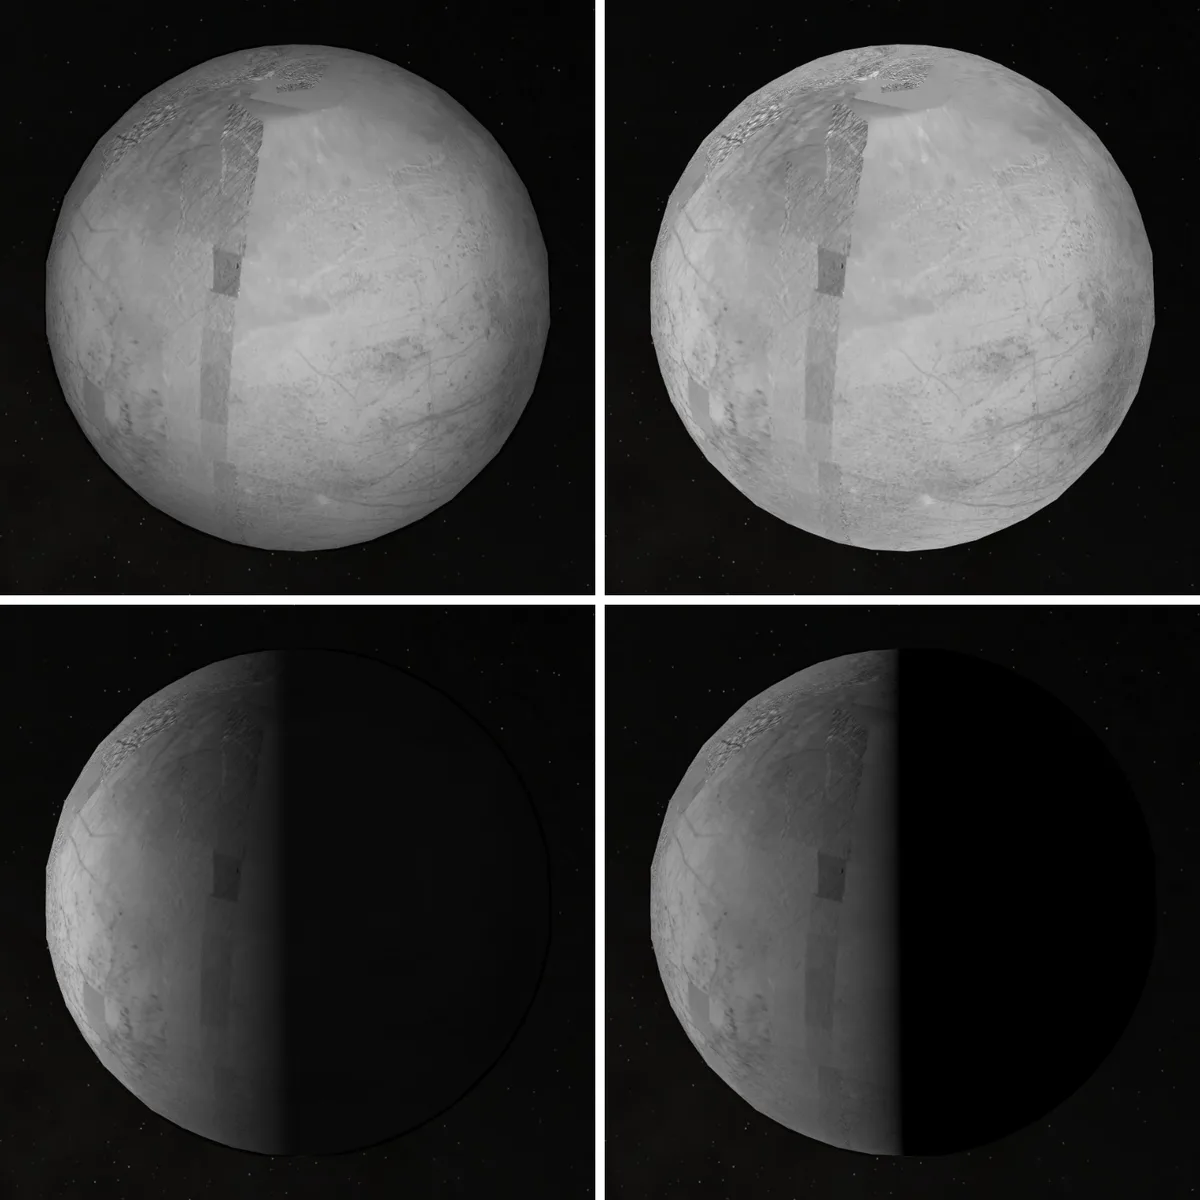
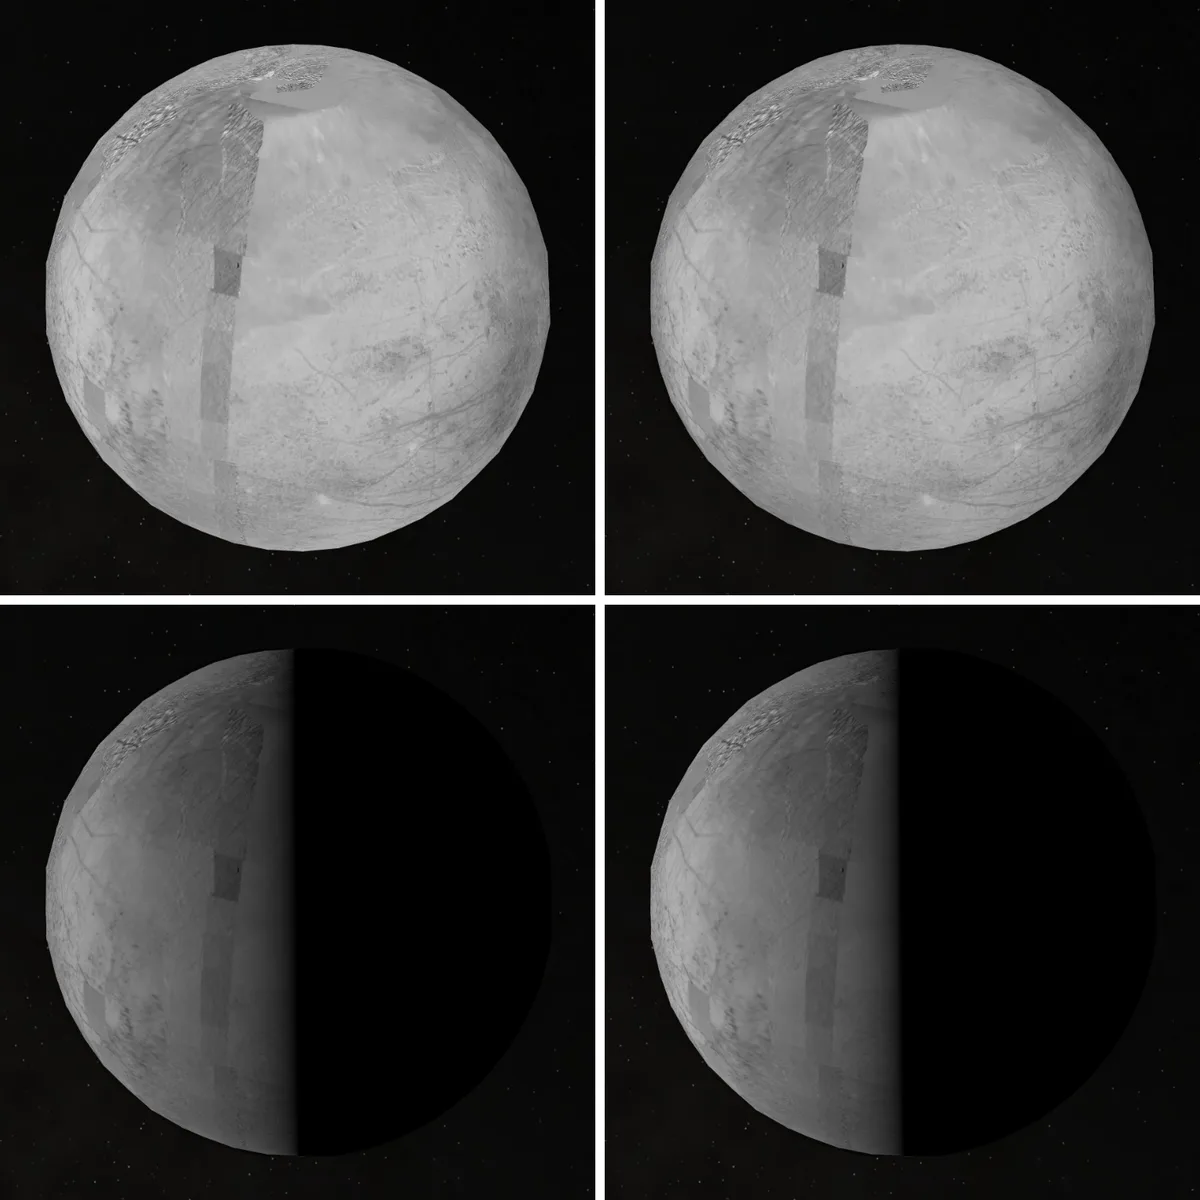
feat(europa): light Europa with a Minnaert law joined from the 1983 low-phase fit and the 2021 fit, darkening its flood-lit limb

diff --git a/packages/bake/src/photometry/disk.ts b/packages/bake/src/photometry/disk.ts
@@ -33,9 +33,15 @@ export type DiskModel =
    * (cos beta)^(g/(pi - g)) / cos gamma, with the photometric longitude gamma = arctan[(mu0 - mu cos g)/(mu sin g)] and
    * latitude beta = arccos(mu / cos gamma). It is 1 over the whole disc at zero phase: no limb darkening under flood light.
    */
-  | { readonly family: 'akimov' };
+  | { readonly family: 'akimov' }
+  /**
+   * Minnaert with the exponent a paper gives at stated phase angles, each point [phase in degrees, k], joined by straight
+   * lines and held at the nearest point outside them: D = mu0^k mu^(k - 1). It lets fits made over different phase ranges
+   * each be used inside its own range (McEwen and Soderblom 1983 and Dhingra et al. 2021 for Europa).
+   */
+  | { readonly family: 'minnaert-tabulated'; readonly points: readonly (readonly [number, number])[] };
 
-export const DISK_FAMILIES = ['lambert', 'lommel-seeliger', 'lunar-lambert', 'minnaert', 'lommel-seeliger-lambert', 'akimov'] as const;
+export const DISK_FAMILIES = ['lambert', 'lommel-seeliger', 'lunar-lambert', 'minnaert', 'lommel-seeliger-lambert', 'akimov', 'minnaert-tabulated'] as const;
 
 /** Normal incidence and emission at zero phase: the reference at which every disk function above equals 1, except Lommel-Seeliger plus Lambert, which there gives A0 f0 / 2 + 1 - A0. */
 export const NORMAL_GEOMETRY: DiskGeometry = Object.freeze({ mu0: 1, mu: 1, phase: 0 });
@@ -44,12 +50,21 @@ export const NORMAL_GEOMETRY: DiskGeometry = Object.freeze({ mu0: 1, mu: 1, phas
 export const minnaertExponent = (model: { coefficient: number; coefficientPerDegree: number }, phase: number) =>
   model.coefficient + model.coefficientPerDegree * phase * 180 / Math.PI;
 
+/** The exponent of a tabulated Minnaert law at a phase angle in radians: straight lines between its points, held outside them. */
+export function tabulatedExponent(points: readonly (readonly [number, number])[], phase: number): number {
+  const degrees = phase * 180 / Math.PI, next = points.findIndex(([at]) => at >= degrees);
+  if (next <= 0) return points[next === 0 ? 0 : points.length - 1][1];
+  const [from, low] = points[next - 1], [to, high] = points[next];
+  return low + (high - low) * (degrees - from) / (to - from);
+}
+
 export function diskValue(model: DiskModel, { mu0, mu, phase }: DiskGeometry): number {
   switch (model.family) {
     case 'lambert': return mu0;
     case 'lommel-seeliger': return 2 * mu0 / (mu0 + mu);
     case 'lunar-lambert': return (1 - model.weight) * mu0 + 2 * model.weight * mu0 / (mu0 + mu);
     case 'minnaert': { const k = minnaertExponent(model, phase); return mu0 ** k * mu ** (k - 1); }
+    case 'minnaert-tabulated': { const k = tabulatedExponent(model.points, phase); return mu0 ** k * mu ** (k - 1); }
     case 'akimov': {
       // At zero phase the longitude is undetermined and the function is 1 for every one.
       if (!(Math.sin(phase) > 1e-12)) return 1;
@@ -82,6 +97,11 @@ export function assertDiskModel(model: DiskModel) {
   if (!DISK_FAMILIES.includes(model.family)) throw new TypeError(`Unknown disk function: ${String((model as { family: unknown }).family)}`);
   if (model.family === 'lunar-lambert' && !(Number.isFinite(model.weight) && model.weight >= 0 && model.weight <= 1)) throw new TypeError('Lunar-Lambert weight must lie in [0, 1].');
   if (model.family === 'minnaert' && !(Number.isFinite(model.coefficient) && Number.isFinite(model.coefficientPerDegree))) throw new TypeError('Minnaert coefficients must be finite.');
+  if (model.family === 'minnaert-tabulated') {
+    const { points } = model;
+    if (!(Array.isArray(points) && points.length >= 2) || !points.every(point => Array.isArray(point) && point.length === 2 && point.every(Number.isFinite))) throw new TypeError('A tabulated Minnaert law needs at least two finite [degrees, exponent] points.');
+    if (!points.every(([degrees, k], index) => degrees >= 0 && degrees <= 180 && k > 0 && (index === 0 || degrees > points[index - 1][0]))) throw new TypeError('Tabulated Minnaert points must have increasing phases within [0, 180] degrees and positive exponents.');
+  }
   if (model.family === 'lommel-seeliger-lambert') {
     const { lunarFraction, lunarFractionPerDegree, surfacePhase, surfacePhasePerDegree } = model, lunarAt180 = lunarFraction + lunarFractionPerDegree * 180;
     if (![lunarFraction, lunarFractionPerDegree, surfacePhase, surfacePhasePerDegree].every(Number.isFinite)) throw new TypeError('Lommel-Seeliger plus Lambert coefficients must be finite.');

diff --git a/packages/bake/src/photometry/model-record.ts b/packages/bake/src/photometry/model-record.ts
@@ -75,6 +75,11 @@ export function parsePhotometricModel(value: unknown): PhotometricModel {
     const disk: DiskModel = diskFamily === 'lunar-lambert' ? { family: diskFamily, weight: requireFiniteNumber(strict(r.disk, ['family', 'weight'], 'disk function').weight, 'weight') }
       : diskFamily === 'minnaert' ? (() => { const d = strict(r.disk, ['family', 'coefficient', 'coefficientPerDegree'], 'disk function'); return { family: diskFamily, coefficient: requireFiniteNumber(d.coefficient, 'coefficient'), coefficientPerDegree: requireFiniteNumber(d.coefficientPerDegree ?? 0, 'coefficient per degree') }; })()
       : diskFamily === 'lommel-seeliger-lambert' ? (() => { const d = strict(r.disk, ['family', 'lunarFraction', 'lunarFractionPerDegree', 'surfacePhase', 'surfacePhasePerDegree'], 'disk function'); return { family: diskFamily, lunarFraction: requireFiniteNumber(d.lunarFraction, 'lunar fraction'), lunarFractionPerDegree: requireFiniteNumber(d.lunarFractionPerDegree, 'lunar fraction per degree'), surfacePhase: requireFiniteNumber(d.surfacePhase, 'surface phase function'), surfacePhasePerDegree: requireFiniteNumber(d.surfacePhasePerDegree, 'surface phase function per degree') }; })()
+      : diskFamily === 'minnaert-tabulated' ? { family: diskFamily, points: requireArray(strict(r.disk, ['family', 'points'], 'disk function').points, 'exponent points').map(point => {
+          const pair = requireArray(point, 'exponent point');
+          if (pair.length !== 2) throw new TypeError('An exponent point is [degrees, exponent].');
+          return [requireFiniteNumber(pair[0], 'exponent point degrees'), requireFiniteNumber(pair[1], 'exponent point value')] as const;
+        }) }
       : diskFamily === 'lambert' || diskFamily === 'lommel-seeliger' || diskFamily === 'akimov' ? (strict(r.disk, ['family'], 'disk function'), { family: diskFamily })
       : (() => { throw new TypeError(`Unknown disk function: ${diskFamily}.`); })();
     const phase: PhaseModel | undefined = optional(r.phase, value => {

diff --git a/src/objects/europa/README.md b/src/objects/europa/README.md
@@ -11,7 +11,7 @@ The navigation marker uses the source map as a stylized identifier. The [marker 
 - The False color dataset uses the [USGS controlled Galileo observations](https://stac.astrogeology.usgs.gov/docs/data/jupiter/europa/galileo_individual_images/) (CC0), by Bland, Weller and colleagues: sequences G1ESGLOBAL01 (1996-06-28), 12ESGLOCOL01 (1997-12-16) and 14ESGLOCOL01 (1998-03-29).
 - The geology view keeps the ten map units and no-data regions of [Leonard, Patthoff and Senske (2024), SIM 3513](https://pubs.usgs.gov/publication/sim3513), scale 1:15 million.
 - The infrared view uses [the registered Galileo NIMS archive](https://doi.org/10.17189/4sz4-5024), observations 17ENGLOBAL01A and 17ENGLOBAL02A, Minnaert-corrected CIOF products.
-- Lighting uses the Lommel–Seeliger plus Lambert law of [Dhingra, Buratti and Seignovert (2021)](https://doi.org/10.3847/PSJ/ac06d6), fitted to 21 Voyager 2, Galileo and New Horizons clear-filter images. See [Lighting law](#lighting-law).
+- Lighting uses a Minnaert law whose limb exponent follows [McEwen and Soderblom (1983)](https://ntrs.nasa.gov/citations/19840015363) up to 30° phase and [Dhingra, Buratti and Seignovert (2021)](https://doi.org/10.3847/PSJ/ac06d6) beyond. See [Lighting law](#lighting-law).
 - The VLT/SPHERE composition release of [King, Fletcher and Ligier (2022)](https://doi.org/10.3847/PSJ/ac596d) is [Zenodo 6034904](https://doi.org/10.5281/zenodo.6034904). Its Ice signature, Fine ice and Coarse ice views are withheld (see Known problems).
 - Named features come from the IAU/USGS Gazetteer of Planetary Nomenclature centre-point shapefile (retrieved 2026-09-11, public domain per its FGDC metadata). Twelve names carry a caption note from the lead of their English Wikipedia article (CC BY-SA 4.0, retrieved 2026-09-12), credited in the caption beside the IAU naming year.
 - [NASA's Europa facts](https://science.nasa.gov/jupiter/jupiter-moons/europa/europa-facts/) support the introduction, oxygen atmosphere, and approximate 671,000 km distance from Jupiter.
@@ -53,9 +53,14 @@ These weights are visual choices, not fitted scattering parameters; the [USGS Eu
 
 ## Lighting law
 
-The globe is lit with the law of [Dhingra, Buratti and Seignovert (2021)](https://doi.org/10.3847/PSJ/ac06d6): I/F = A f(α) μ0/(μ0 + μ) + (1 − A) μ0. It adds a lunar-like term and a Lambert term, the form [Buratti and Veverka (1983)](https://doi.org/10.1016/0019-1035%2883%2990053-2) introduced for Europa. The coefficients are the ridged-plains lines of the paper's Table 2, A = 0.871 − 0.003 α and f = 1.556 − 0.014 α, with α the phase angle in degrees. The paper says ridged plains cover more than half of Europa and that the parameters differ little between terrains. The law is recorded in [`source/photometry/dhingra-2021-lommel-seeliger-lambert-clear.json`](source/photometry/dhingra-2021-lommel-seeliger-lambert-clear.json).
+The globe is lit with the Minnaert law, I/F = B0 μ0^k μ^(k − 1). Its exponent k sets how fast the disc darkens toward the limb. Two fits give k for Europa over different phase ranges, and each is used inside its own:
 
-Each lighting frame is the law relative to the flood-lit disc centre, so the centre of the default view shows the map as published. With the Sun behind the viewer the limb darkens to 0.86 of the centre. At 0.98 of the radius that is an overlay alpha of 0.06, where the authored bank this replaces reached 0.49. See [planet limbs](../../../docs/surface-preparation.md#planet-limbs-from-published-laws).
+- **3° to 30° phase:** [McEwen and Soderblom (1983)](https://ntrs.nasa.gov/citations/19840015363), page 261, from 44 pairs of Voyager images: k = 0.64 − 0.005α + 0.00066α² − 0.000012α³, the same for every material and wavelength. It is 0.63 at 3° and 0.76 at 30°.
+- **Beyond:** [Dhingra, Buratti and Seignovert (2021)](https://doi.org/10.3847/PSJ/ac06d6), Table 2, ridged plains, from 21 Voyager 2, Galileo and New Horizons clear-filter images at 10° to 128°: k = 0.532 + 0.004α, and B0 = 0.728 − 0.002α for the brightness with phase.
+
+The 2021 line is not used at low phase. That paper's own fit of its 10° image gives k = 0.64 to 0.65 (its Figures 4 and 6, read in the [open JPL copy](https://doi.org/10.48577/jpl.6IR6VA)), the 1983 value there (0.644), where its line gives 0.57. Between 30° and 57°, where the 2021 line is still below the 1983 value at 30°, k is held at 0.76, so the exponent never falls as phase grows. That join is our reading, not either paper's. The law is recorded in [`source/photometry/mcewen-1983-dhingra-2021-minnaert-clear.json`](source/photometry/mcewen-1983-dhingra-2021-minnaert-clear.json).
+
+Each lighting frame is the law relative to the flood-lit disc centre, so the centre of the default view shows the map as published. With the Sun behind the viewer the limb darkens to 0.66 of the centre at 0.98 of the radius, an overlay alpha of 0.18. The 2021 Lommel–Seeliger plus Lambert lines used before gave 0.86 there, above both low-phase results. See [planet limbs](../../../docs/surface-preparation.md#planet-limbs-from-published-laws).
 
 ## Evidence
 
@@ -82,7 +87,7 @@ The withheld composition grids match the original release exactly after float32 
 - **Monochrome inserts:** Smaller brightness steps remain where one gain per image cannot follow the phase-angle change in albedo, and shadows keep their original direction. Photographs beyond 85° incidence are not shown. Relative control uncertainties are about 247 m in latitude and 307 m in longitude; the older global mosaic has different registration errors. The delivered grid is about 1.20 km at the equator, so finer native detail is not shown. Atlas seams can show at extreme close zoom.
 - **False color:** 756 nm, 559 nm and 404 nm are shown as red, green and blue. This is not natural color. About 14.3% of the sphere has usable three-band coverage.
 - **Illumination:** The disk correction is approximate: no phase-angle normalization, fitted scattering model, or removal of cast shadows.
-- **Lighting law:** One law lights every terrain; the paper's chaos and crater rows differ from the ridged-plains row used. Its emission limit, 84.5°, is derived here, not stated by the paper. The fits cover 10° to 128° phase, so the flood-lit default view (0°) and frames beyond 128° use the printed lines outside that range. The line for f crosses zero at 111°; from there the lit side follows the Lambert term alone. The paper's own fit of its 10° image (A = 0.69, f = 1.17, its Figure 6) gives a darker flood-lit limb, 0.61 of the centre, than the lines of Table 2. McEwen and Soderblom (1983) found the same from 44 image pairs at 3° to 30° phase (0.64 at 3°), so the default view's limb is probably drawn too bright; the [ledger](investigations.json) says why it is not changed yet.
+- **Lighting law:** One law lights every terrain. Its limb exponent joins two fits, the 1983 one to 30° phase and the 2021 one from 57°, held between; the join is ours. Below 3° the exponent is held at its 3° value and beyond 128° the law is held. The brightness with phase comes from the 2021 fit alone. The emission limit, 84.5°, is derived here, not stated by either paper.
 - **Infrared:** This is a spectral color display, not an abundance map. Its 2010 registration grid is not the 2021 control grid.
 - **Feature outlines:** Craters and faculae trace a rim circle and other types their extent box; these are not published nomenclature boundaries.
 - **Composition reuse:** The Zenodo record is `other-open`, but gives no explicit terms for reusing the numerical release. The three composition views are withheld until such terms exist. SPHERE diffraction limits resolved features to about 150 km.

diff --git a/docs/surface-preparation.md b/docs/surface-preparation.md
@@ -762,7 +762,7 @@ same published law, so the limb in the app is the limb the instrument saw.
   | Moon | Hapke at 643 nm | [Sato et al. 2014](https://doi.org/10.1002/2013JE004580), the correction of the LROC WAC mosaic; w, b and h_S are medians of its PDS parameter map |
   | Ceres (dwarf planet) | Hapke at 749 nm | [Li et al. 2019](https://doi.org/10.1016/j.icarus.2018.12.038), Dawn Framing Camera |
   | Io | Lunar-Lambert, weight 0.7 | the [USGS mosaics'](https://astrogeology.usgs.gov/search/map/io_voyager_galileo_ssi_global_mosaic_1km) own limb-darkening correction, at the phase [SIM 3168](https://pubs.usgs.gov/sim/3168/) gives; the limb limit is the outermost pixel of the finest full-disc Galileo frame at that phase, derived here |
-  | Europa | Lommel–Seeliger plus Lambert, coefficients linear in phase | [Dhingra et al. 2021](https://doi.org/10.3847/PSJ/ac06d6), Voyager 2, Galileo and New Horizons clear-filter images, ridged-plains row; the limb limit is the outermost pixel of the finest full-disc image in its Table 1, derived here |
+  | Europa | Minnaert, with the limb exponent of two fits joined by phase | [McEwen and Soderblom 1983](https://ntrs.nasa.gov/citations/19840015363), 44 pairs of Voyager images, to 30° phase; [Dhingra et al. 2021](https://doi.org/10.3847/PSJ/ac06d6), ridged-plains line of Table 2, from 57°; held between, a join that is ours. The 2021 paper's own 10° image agrees with the 1983 fit, not with its line. The limb limit is the outermost pixel of the finest full-disc image in the 2021 paper's Table 1, derived here |
   | Ganymede, Callisto | Lommel–Seeliger (lunar-like), which has no parameter | [Squyres and Veverka 1981](https://doi.org/10.1016/0019-1035%2881%2990203-7), Voyager clear-filter images. The paper is closed; the function is read in the authors' summary, page 67 of [NASA TM-82385](https://ntrs.nasa.gov/citations/19810007392). Flat at zero phase. No phase function is printed. The limb limit is the outermost pixel of the finest whole-disc Voyager frame, derived here |
   | Iapetus | Lommel–Seeliger, with the phase values the paper prints per image | [Buratti and Mosher 1995](https://doi.org/10.1006/icar.1995.1093), Voyager images, read in its [JPL preprint](https://dataverse.jpl.nasa.gov/dataset.xhtml?persistentId=hdl:2014/29299). Flat at zero phase. The limb limit is the outermost pixel of the finest image in its Table 1, derived here |
   | Oberon | Hapke (1986): single-scattering albedo 0.41, asymmetry −0.29, roughness 21°, opposition surge 1.03 and 0.007 | Helfenstein, Hillier, Weitz and Veverka, Voyager clear-filter images and Earth-based photometry, read in the authors' summary, pages 230 and 231 of [NASA TM-4210](https://ntrs.nasa.gov/citations/19900018290). The limb limit is the outermost pixel of the frame it names as its finest, derived here |
@@ -805,9 +805,10 @@ same published law, so the limb in the app is the limb the instrument saw.
   ![Pluto before and after](images/planet-limbs/pluto-before-after.webp)
   ![Charon before and after](images/planet-limbs/charon-before-after.webp)
 
-  Europa on css.earth with the shared bank (left) and with its published law
-  (right), 4 October 2026: Shadows off above, on below. Its law gives an
-  overlay alpha of 0.06 at 0.98 of the radius.
+  Europa with the 2021 lines alone (left) and with the low-phase fit joined to
+  them (right), 5 October 2026: Shadows off above, on below. The joined law
+  gives an overlay alpha of 0.18 at 0.98 of the radius, where the lines alone
+  gave 0.06 and the authored bank 0.49.
 
   ![Europa before and after](images/planet-limbs/europa-before-after.webp)
 

diff --git a/packages/bake/src/photometry/README.md b/packages/bake/src/photometry/README.md
@@ -8,7 +8,7 @@ The models and the limb laws are the `@cssearth/bake/photometry` entry (this fol
 
 | Module | Owns |
 | --- | --- |
-| `disk.ts` | Lambert, Lommel-Seeliger, ISIS Lunar-Lambert and Minnaert disk functions, with the same arithmetic the routes used before this library, so outputs stay byte-identical. Also Lommel-Seeliger plus Lambert with coefficients linear in phase, the form Buratti and Veverka (1983) introduced for Europa, and Akimov's parameter-free function, which is flat at zero phase. |
+| `disk.ts` | Lambert, Lommel-Seeliger, ISIS Lunar-Lambert and Minnaert disk functions, with the same arithmetic the routes used before this library, so outputs stay byte-identical. Also Lommel-Seeliger plus Lambert with coefficients linear in phase, the form Buratti and Veverka (1983) introduced for Europa, and Akimov's parameter-free function, which is flat at zero phase. Also Minnaert with its exponent given at stated phases and joined by straight lines, for fits made over different phase ranges. |
 | `phase.ts` | The Henyey-Greenstein phase term with shadow hiding that 67P used before its full model, the Kaasalainen-Shkuratov exponential, a quadratic fitted to a phase curve, held beyond its fitted phase, and a table of the values a paper prints per image, joined by straight lines. |
 | `hapke.ts` | The Hapke model: the 1981 and 2002 H-function approximations, one- and two-term Henyey-Greenstein and Legendre particle phase functions, shadow hiding, coherent backscatter and porosity. |
 | `roughness.ts` | Hapke (1984) macroscopic roughness, step for step as ISIS computes it. |

diff --git a/docs/provenance/investigation-index.md b/docs/provenance/investigation-index.md
@@ -251,7 +251,7 @@ The source each decision examined. Watching these is how a decision reopens.
 | `exi-measured-limb-halo` | 1 | mars | EXI Level 2 radiance frames near zero phase are obtained and reduced to limb profiles in the three bands. |
 | `exomoon-candidate` | 1 | hd-206893-b | Further GRAVITY astrometry confirms or rules out the signal. |
 | `expansion-distance` | 1 | m2-9-volume | Choose an explicitly justified distance model and propagate its uncertainty through every frame/extent before changing scale. |
-| `fast-knots` | 1 | m57-nircam-layers | The knots' places and speeds are published as a table. |
+| `fast-knots` | 1 | m57-nircam-layers | — |
 | `feature-outline-geometry` | 1 | mercury | A released dataset supplies mapped nomenclature boundaries for Mercury's features. |
 | `feature-registration-followup` | 1 | pallene | Independent surface controls or an image with stable identifiable features can qualify feature registration. |
 | `filacchione-2022-spectrophotometry` | 1 | enceladus | A released numeric map with coordinates and missing-data definitions is located, or a separately validated reproduction of the published method is undertaken. |
